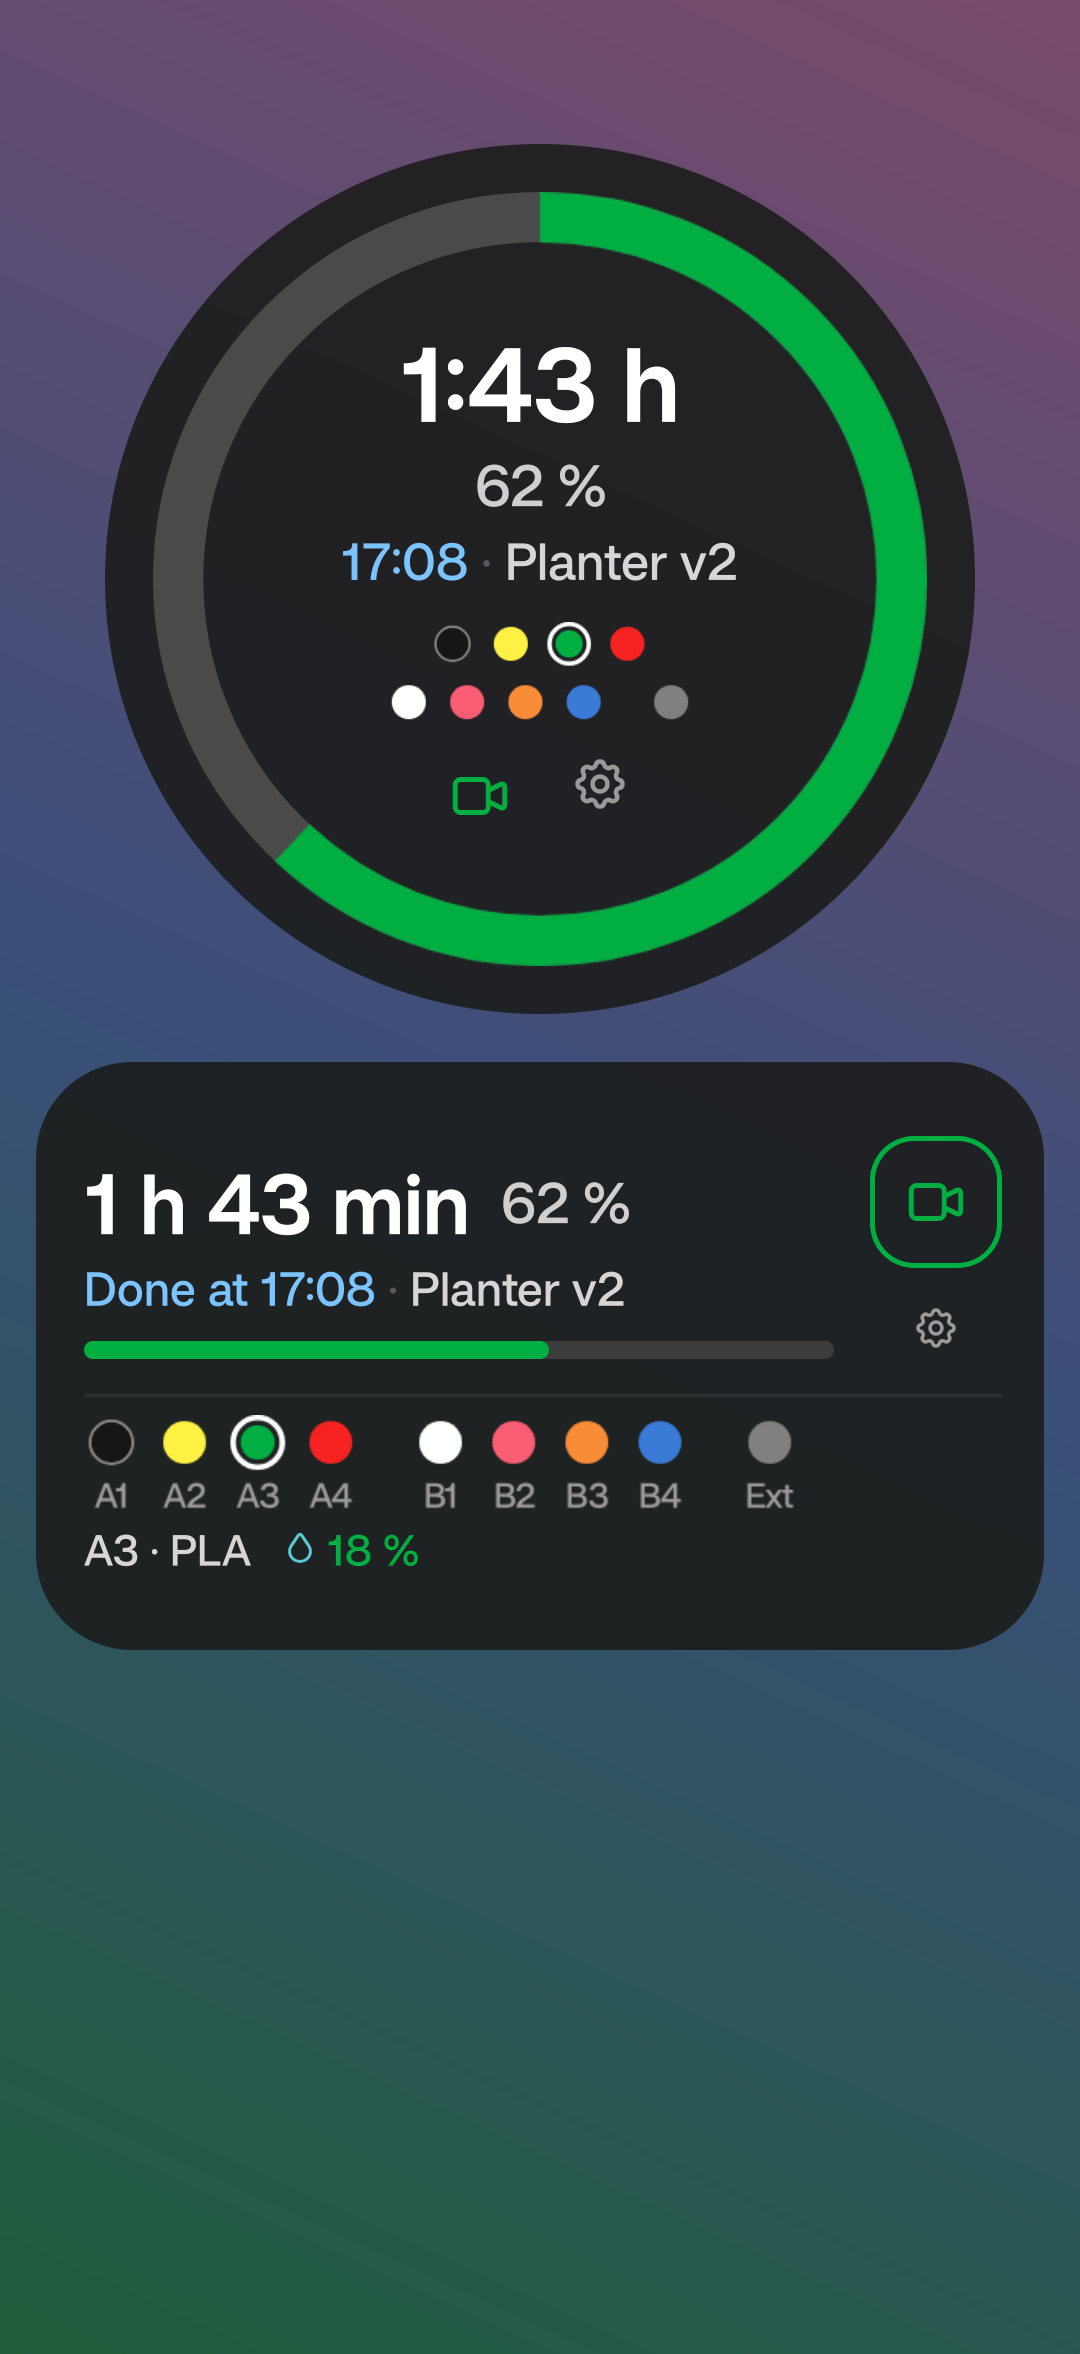
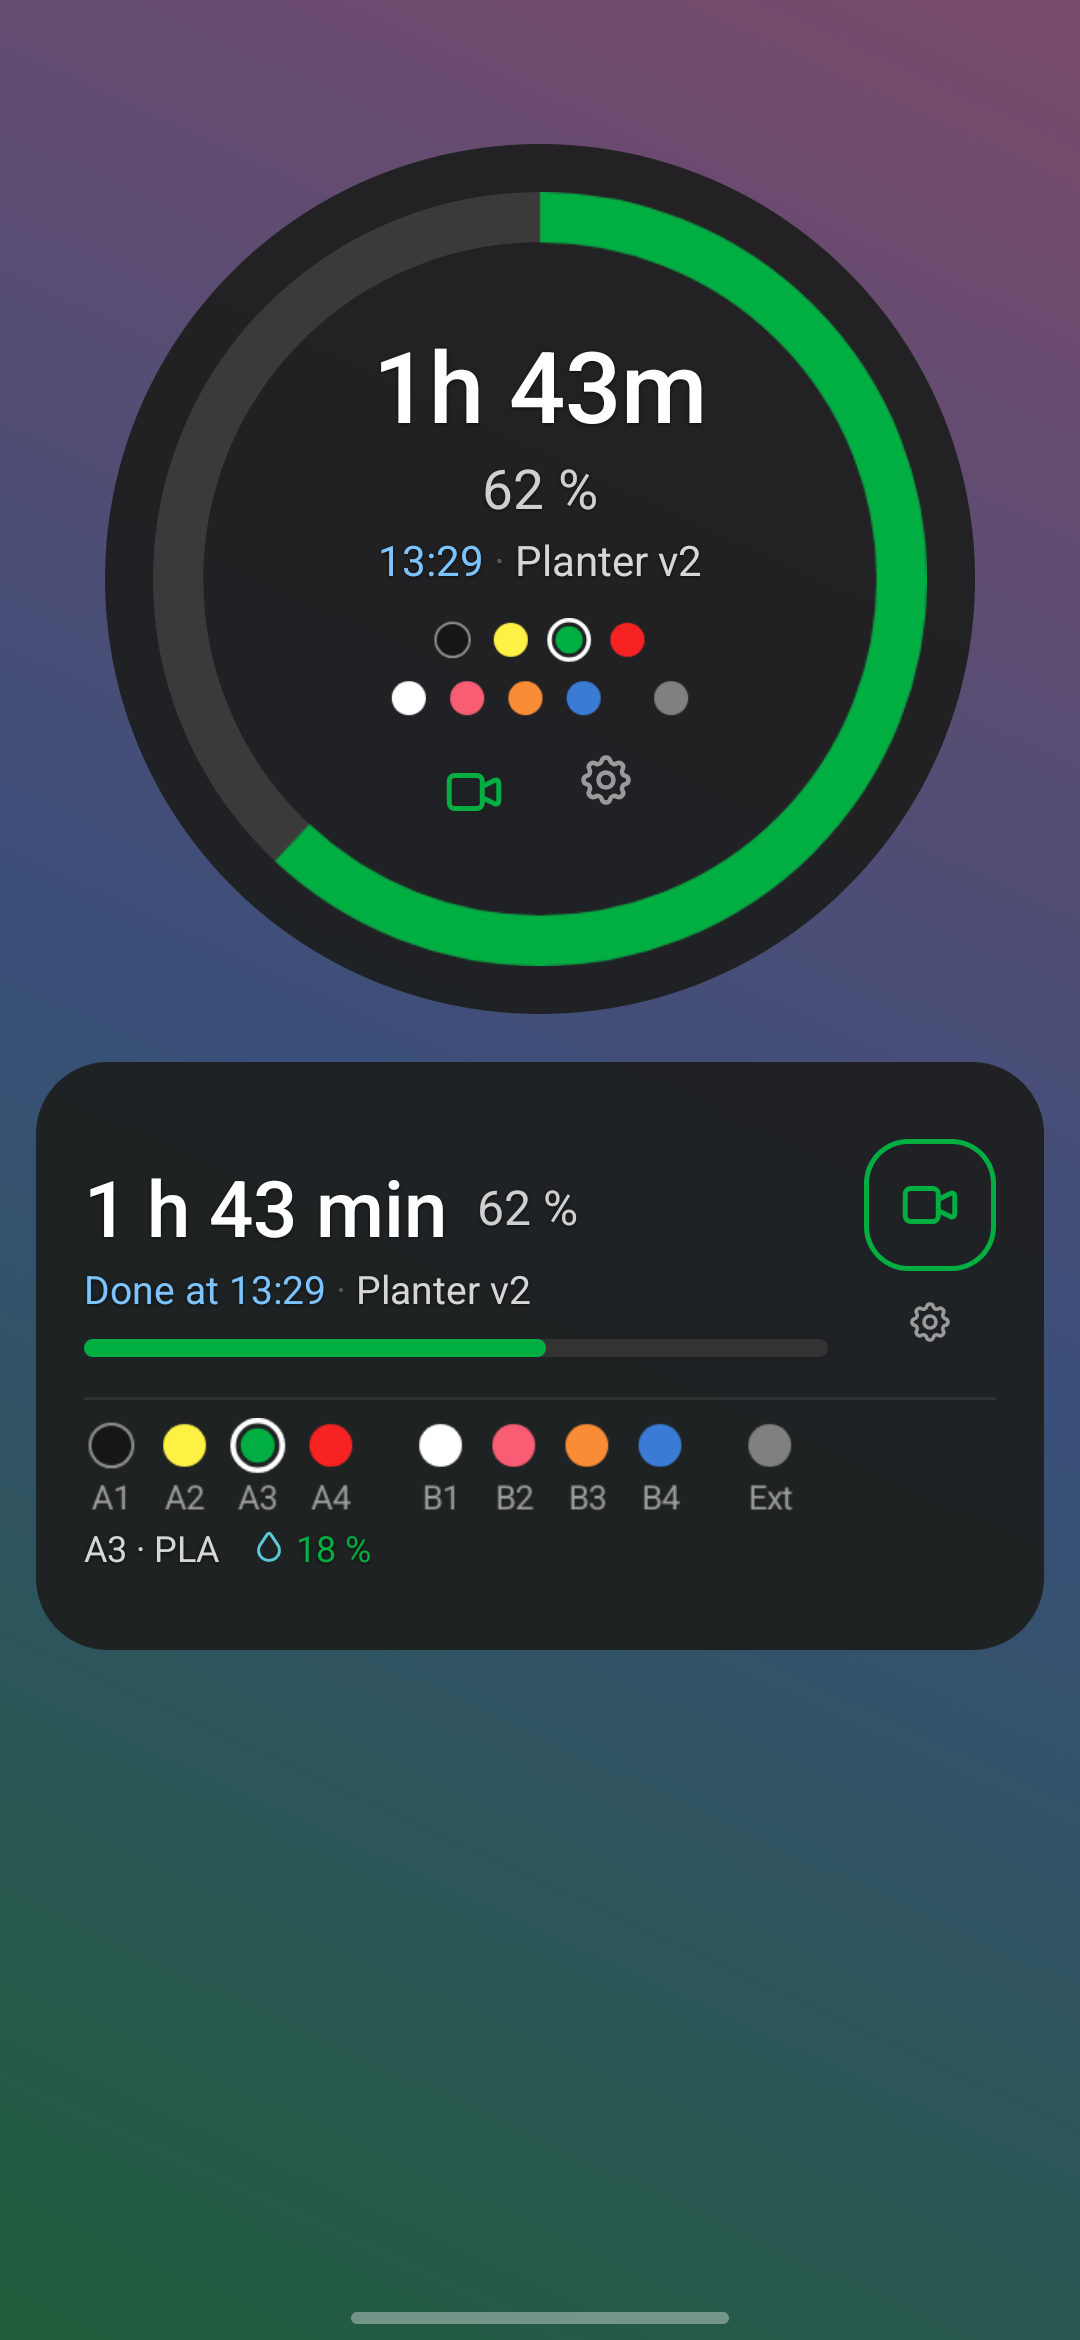
New screenshots for 1.0.3: new time format, six printers

diff --git a/join.html b/join.html
@@ -25,7 +25,7 @@
       <div class="shots join-shots">
         <a href="assets/screen-1.png"><img src="assets/screen-1.png" alt="Big round widget with a progress ring, time left and filament dots, and a rectangle widget with labelled AMS slots and humidity"></a>
         <a href="assets/screen-2.png"><img src="assets/screen-2.png" alt="Thin strip widget during bed leveling, an idle widget with the last print and AMS humidity, and a round widget after a finished print"></a>
-        <a href="assets/screen-3.png"><img src="assets/screen-3.png" alt="Multiple Printers widget: four printers with time left, finish time and progress"></a>
+        <a href="assets/screen-3.png"><img src="assets/screen-3.png" alt="Multiple Printers widget: six printers with time left, finish time and progress"></a>
       </div>
       <p class="note shots-note">Tap a picture to see it bigger.</p>
 

diff --git a/index.html b/index.html
@@ -33,7 +33,7 @@
       <div class="shots">
         <img src="assets/screen-1.png" alt="Big round widget with a progress ring, time left and filament dots, and a rectangle widget with labelled AMS slots and humidity">
         <img src="assets/screen-2.png" alt="Thin strip widget during bed leveling, an idle widget with the last print and AMS humidity, and a round widget after a finished print">
-        <img src="assets/screen-3.png" alt="Multiple Printers widget: four printers with time left, finish time and progress, and a smaller version with two printers">
+        <img src="assets/screen-3.png" alt="Multiple Printers widget: six printers with time left, finish time and progress, and a smaller version with two printers">
       </div>
     </div>
   </div>
